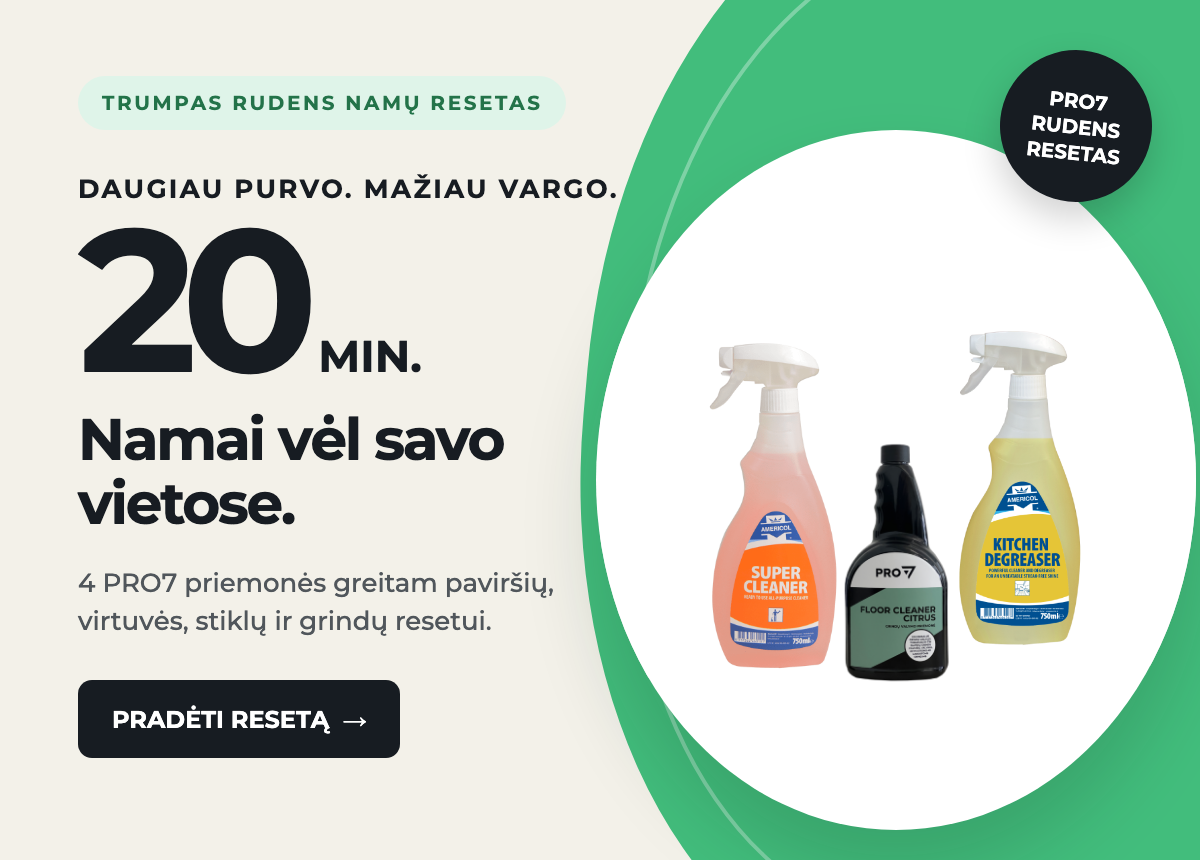
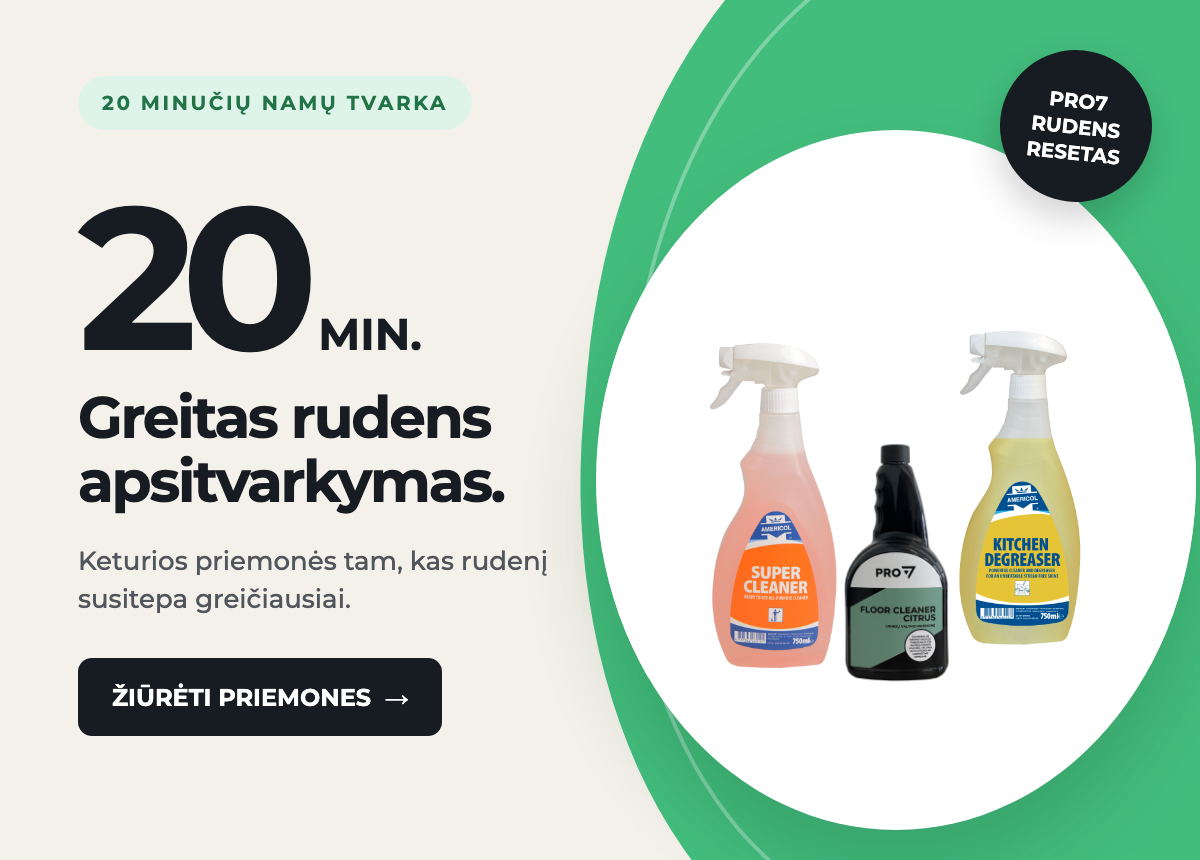
Make campaign copy shorter and more natural

Changed region(s): [[0.0617, 0.1814, 0.5242, 0.907], [0.0925, 0.0907, 0.4625, 0.1512]]

diff --git a/nl2-20min-rudens-resetas/index.html b/nl2-20min-rudens-resetas/index.html
@@ -14,7 +14,7 @@
   </style>
 </head>
 <body>
-  <div class="preheader">Keturi aiškūs žingsniai paviršiams, virtuvei, stiklams ir grindims, mažiau blaškymosi, daugiau rezultato.</div>
+  <div class="preheader">Keturios priemonės greitam rudens apsitvarkymui per 20 minučių.</div>
   <table role="presentation" width="100%" bgcolor="#edf1ef"><tr><td align="center" style="padding:22px 8px 40px">
     <table role="presentation" class="shell" width="600" bgcolor="#ffffff" style="width:600px;max-width:600px;border-radius:16px;overflow:hidden;box-shadow:0 10px 35px rgba(35,40,50,.10)">
       <tr><td bgcolor="#42ba7d" align="center" style="padding:9px 16px;font-family:Montserrat,Arial,sans-serif;font-size:11px;line-height:16px;font-weight:600;color:#ffffff">Nemokamas pristatymas Lietuvoje nuo 45 €</td></tr>
@@ -37,12 +37,12 @@
 
       <tr><td class="pad" style="padding:34px 38px 22px;font-family:Montserrat,Arial,sans-serif;color:#232832">
         <p style="margin:0 0 12px;font-size:15px;line-height:24px">Sveiki, [[contact.first_name|default:'bičiuli']]!</p>
-        <p style="margin:0;font-size:15px;line-height:24px">Rudenį valymo sąrašas, atrodo, tik ilgėja. Todėl siūlome ne generalinį tvarkymą, o trumpą ir aiškų planą. Skirkite maždaug po 5 minutes kiekvienai zonai ir rinkitės priemonę pagal problemą. Mažiau spėliojimo, daugiau matomo rezultato.</p>
+        <p style="margin:0;font-size:15px;line-height:24px">Rudenį namuose purvo tiesiog daugiau. Batai, virtuvė, langai ir grindys apsineša greičiau. Susidėkite keturias tinkamas priemones ir per 20 minučių pereikite tai, kas labiausiai krenta į akis.</p>
       </td></tr>
 
       <tr><td class="pad" style="padding:17px 38px 12px;font-family:Montserrat,Arial,sans-serif;color:#232832">
-        <div style="font-size:11px;line-height:14px;font-weight:700;letter-spacing:1.2px;text-transform:uppercase;color:#277e52">Jūsų 20 min. planas</div>
-        <h2 style="margin:7px 0 0;font-size:28px;line-height:34px;font-weight:700;letter-spacing:-.5px">Keturi greiti sustojimai</h2>
+        <div style="font-size:11px;line-height:14px;font-weight:700;letter-spacing:1.2px;text-transform:uppercase;color:#277e52">20 minučių planas</div>
+        <h2 style="margin:7px 0 0;font-size:28px;line-height:34px;font-weight:700;letter-spacing:-.5px">Nuo ko pradėti?</h2>
       </td></tr>
 
       <tr><td class="pad" style="padding:8px 38px 30px">
@@ -55,7 +55,7 @@
       </td></tr>
 
       <tr><td class="pad" bgcolor="#f3f6f4" style="padding:34px 32px 18px;font-family:Montserrat,Arial,sans-serif;color:#232832">
-        <h2 style="margin:0 0 22px;font-size:27px;line-height:33px;font-weight:700;text-align:center">Priemonės Jūsų resetui</h2>
+        <h2 style="margin:0 0 22px;font-size:27px;line-height:33px;font-weight:700;text-align:center">Keturios priemonės rudeniui</h2>
         <table role="presentation" width="100%"><tr>
           <td class="product-col" width="50%" valign="top" style="padding:0 7px 14px 0"><table class="product-card" role="presentation" width="100%" height="405" bgcolor="#ffffff" style="height:405px;border-radius:12px"><tr><td align="center" valign="top" style="padding:18px 16px;font-family:Montserrat,Arial,sans-serif;color:#232832"><a href="https://www.pro7.lt/svaros-prekes/113-americol-super-cleaner-0-75-l-universalus-valiklis-koncentratas"><img class="product-img" src="assets/super-cleaner.png" width="185" alt="Americol Super Cleaner, 750 ml" style="width:185px;max-width:100%;height:185px;object-fit:contain;margin:0 auto"></a><div style="font-size:10px;line-height:13px;font-weight:700;letter-spacing:1px;color:#277e52;text-transform:uppercase">Paviršiams ir batams</div><h3 style="height:42px;margin:7px 0 6px;font-size:16px;line-height:21px;font-weight:700">Americol Super Cleaner, 750 ml</h3><div style="font-size:19px;line-height:25px;font-weight:700;margin-bottom:12px">13,83 €</div><a href="https://www.pro7.lt/svaros-prekes/113-americol-super-cleaner-0-75-l-universalus-valiklis-koncentratas" style="display:inline-block;padding:11px 16px;border-radius:8px;background:#42ba7d;font-size:12px;font-weight:700;color:#ffffff">Rinktis →</a></td></tr></table></td>
           <td class="product-col" width="50%" valign="top" style="padding:0 0 14px 7px"><table class="product-card" role="presentation" width="100%" height="405" bgcolor="#ffffff" style="height:405px;border-radius:12px"><tr><td align="center" valign="top" style="padding:18px 16px;font-family:Montserrat,Arial,sans-serif;color:#232832"><a href="https://www.pro7.lt/svaros-prekes/1416-americol-kitchen-degreaser-750-ml-virtuves-riebalu-salinimo-priemone"><img class="product-img" src="assets/kitchen-degreaser.png" width="185" alt="Americol Kitchen Degreaser, 750 ml" style="width:185px;max-width:100%;height:185px;object-fit:contain;margin:0 auto"></a><div style="font-size:10px;line-height:13px;font-weight:700;letter-spacing:1px;color:#8a7000;text-transform:uppercase">Virtuvės riebalams</div><h3 style="height:42px;margin:7px 0 6px;font-size:16px;line-height:21px;font-weight:700">Kitchen Degreaser, 750 ml</h3><div style="font-size:19px;line-height:25px;font-weight:700;margin-bottom:12px">18,00 €</div><a href="https://www.pro7.lt/svaros-prekes/1416-americol-kitchen-degreaser-750-ml-virtuves-riebalu-salinimo-priemone" style="display:inline-block;padding:11px 16px;border-radius:8px;background:#42ba7d;font-size:12px;font-weight:700;color:#ffffff">Rinktis →</a></td></tr></table></td>
@@ -66,7 +66,7 @@
       </td></tr>
 
       <tr><td class="pad" style="padding:36px 32px 38px;font-family:Montserrat,Arial,sans-serif;color:#232832">
-        <div style="font-size:11px;line-height:14px;font-weight:700;letter-spacing:1.2px;text-transform:uppercase;color:#277e52;text-align:center">Rezultatas kalba pats</div>
+        <div style="font-size:11px;line-height:14px;font-weight:700;letter-spacing:1.2px;text-transform:uppercase;color:#277e52;text-align:center">Kaip atrodo rezultatas</div>
         <h2 style="margin:7px 0 22px;font-size:27px;line-height:33px;font-weight:700;text-align:center">Prieš ir po su „Super Cleaner“</h2>
         <a href="https://www.pro7.lt/galerija" style="display:block"><table role="presentation" width="100%"><tr>
           <td width="50%" style="padding-right:5px"><img src="assets/before-super-cleaner.png" width="258" alt="Prieš valymą su PRO7" style="width:100%;height:auto;border-radius:12px 0 0 12px"><div style="padding:9px;background:#232832;color:#fff;text-align:center;font-size:11px;font-weight:700">PRIEŠ</div></td>
@@ -84,9 +84,9 @@
       </td></tr>
 
       <tr><td class="pad" bgcolor="#232832" align="center" style="padding:34px 38px;font-family:Montserrat,Arial,sans-serif;color:#ffffff">
-        <div style="font-size:11px;line-height:14px;font-weight:700;letter-spacing:1.2px;color:#78dda9;text-transform:uppercase">Mažiau blaškymosi</div>
-        <h2 style="margin:8px 0 9px;font-size:27px;line-height:33px;font-weight:700">Viskas aišku nuo pirmo žingsnio.</h2>
-        <p style="margin:0 0 20px;font-size:14px;line-height:22px;color:#d5ddd9">Išsirinkite pagal problemą ir paviršių, profesionalus švaros rezultatas namuose.</p>
+        <div style="font-size:11px;line-height:14px;font-weight:700;letter-spacing:1.2px;color:#78dda9;text-transform:uppercase">Ko reikia Jūsų namams?</div>
+        <h2 style="margin:8px 0 9px;font-size:27px;line-height:33px;font-weight:700">Pasirinkite pagal tai, ką valysite.</h2>
+        <p style="margin:0 0 20px;font-size:14px;line-height:22px;color:#d5ddd9">Paviršiams, virtuvei, stiklams ar grindims.</p>
         <table role="presentation"><tr><td bgcolor="#42ba7d" style="border-radius:9px"><a href="https://www.pro7.lt/svaros-prekes-valikliai/valymo-priemones" style="display:inline-block;padding:15px 22px;font-family:Montserrat,Arial,sans-serif;font-size:13px;font-weight:700;color:#ffffff">Peržiūrėti valymo priemones →</a></td></tr></table>
       </td></tr>
 

diff --git a/nl2-20min-rudens-resetas/hero-build.html b/nl2-20min-rudens-resetas/hero-build.html
@@ -71,7 +71,7 @@
         text-transform: uppercase;
       }
       .number {
-        margin-top: 2px;
+        margin-top: 28px;
         font-size: 101px;
         line-height: 91px;
         font-weight: 700;
@@ -178,14 +178,13 @@
       <div class="green"></div>
       <div class="ring"></div>
       <div class="copy">
-        <div class="tag">Trumpas rudens namų resetas</div>
-        <div class="kicker">Daugiau purvo. Mažiau vargo.</div>
+        <div class="tag">20 minučių namų tvarka</div>
         <div class="number">20<span>MIN.</span></div>
-        <div class="title">Namai vėl savo vietose.</div>
+        <div class="title">Greitas rudens apsitvarkymas.</div>
         <div class="sub">
-          4 PRO7 priemonės greitam paviršių, virtuvės, stiklų ir grindų resetui.
+          Keturios priemonės tam, kas rudenį susitepa greičiausiai.
         </div>
-        <div class="cta">PRADĖTI RESETĄ&nbsp; →</div>
+        <div class="cta">ŽIŪRĖTI PRIEMONES&nbsp; →</div>
       </div>
       <div class="stage">
         <div class="halo"></div>
